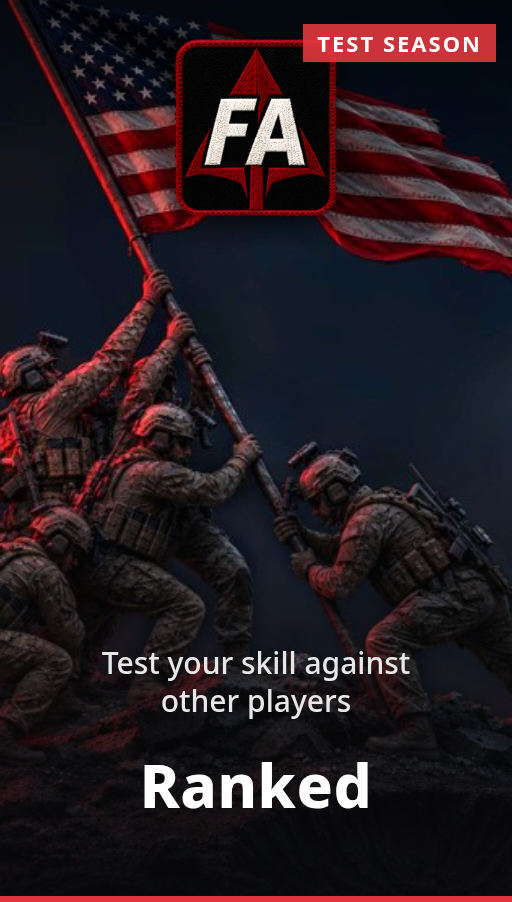
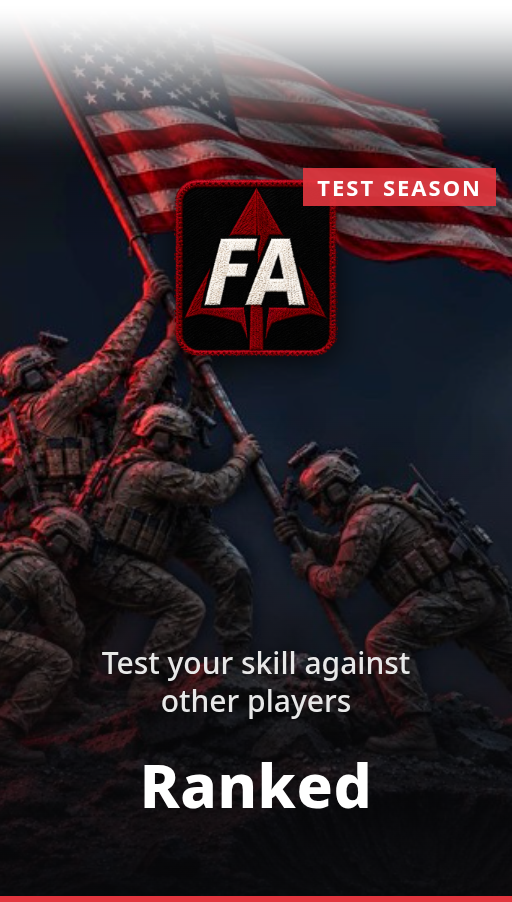
Ranked card hover/fade and Team-queue party panel (Lateralus 22 Nov)
- Card art: top fade like the vanilla Play cards; FA patch and season tag moved below the fade.
- Card placed from the cards' rest layout (all the same width, per screen size), so a hovered vanilla card no longer
  moves or resizes it; on its own hover it grows with the vanilla hover scale/anchor, measured from the game's own
  hovered card (largest size seen; default 1.098 from a Vengeance screenshot).
- Team queue: YOUR PARTY panel through ArrowQueue's party (Party.Invite/Accept/Decline/Leave/Kick): member chips,
  leader kick, invite picker (online players on the same build, mouse-wheel paging, modal), disband/leave,
  incoming invite accept/decline.
Seen in game on Vengeance (dev.28-ranked8): fade, fixed position, hover grow x1.083+ measured, party panel, picker.
Invite/accept flow not tested (needs a second player on the test hub).

Changed region(s): [[0.0, 0.0, 1.0, 0.4035]]

diff --git a/releases/0.6/source/runtime-qa/RankedMenu.cs b/releases/0.6/source/runtime-qa/RankedMenu.cs
@@ -47,7 +47,8 @@ static class RankedMenu
     static Type tFlow,tUi,tApi,tGame,tSignal;
     static MethodInfo mBegin,mCanStart,mStop,mPicked,mSupported;
     static PropertyInfo pActive,pCurrent,pMySteam,pInLobby;
-    static FieldInfo fLink,fPartyNews;
+    static FieldInfo fLink,fPartyNews,fPartyCurrent,fIncoming,fOnline,fOnlineList;
+    static MethodInfo mInvite,mAccept,mDecline,mLeave,mKick;
 
     public static void Install(HarmonyLib.Harmony h)
     {
@@ -63,6 +64,11 @@ static class RankedMenu
         pActive=AccessTools.Property(tApi,"Active");pCurrent=AccessTools.Property(tApi,"Current");
         pMySteam=AccessTools.Property(tGame,"MySteamId");pInLobby=AccessTools.Property(tGame,"InLobby");
         fLink=AccessTools.Field(tSignal,"_link");fPartyNews=AccessTools.Field(tApi,"PartyNews");
+        var tParty=AccessTools.TypeByName("ArrowQueue.Party");   // ArrowQueue's own party calls (invite, accept, decline, leave, kick)
+        fPartyCurrent=AccessTools.Field(tParty,"Current");fIncoming=AccessTools.Field(tParty,"Incoming");
+        fOnline=AccessTools.Field(tApi,"Online");fOnlineList=AccessTools.Field(tApi,"OnlineList");
+        mInvite=AccessTools.Method(tParty,"Invite");mAccept=AccessTools.Method(tParty,"Accept");mDecline=AccessTools.Method(tParty,"Decline");
+        mLeave=AccessTools.Method(tParty,"Leave");mKick=AccessTools.Method(tParty,"Kick");
         foreach(var (n,o) in new (string,object)[]{("Flow.Begin",mBegin),("Flow.Picked",mPicked),("Ui.CanStart",mCanStart),("Api.Stop",mStop),("Game.SupportedScenarios",mSupported),
             ("Api.Active",pActive),("Api.Current",pCurrent),("Game.MySteamId",pMySteam),("Game.InLobby",pInLobby),("Signal._link",fLink)})
             if(o==null)throw new InvalidOperationException("ArrowQueue "+n+" not found");
@@ -228,11 +234,31 @@ static class RankedMenu
         if(rects.Count<2&&c.transform.childCount>0)for(int i=0;i<c.transform.childCount&&rects.Count<2;i++)rects=Cards(c.transform.GetChild(i));
         if(rects.Count<2)return No($"found {rects.Count} card rects under {c.name} ({c.transform.childCount} children)");
         rects.Sort((a,b)=>a.x.CompareTo(b.x));
-        last=rects[^1];pitch=rects[^1].x-rects[^2].x;
+        // Vanilla cards grow in place on hover (Lateralus 22 Nov: hovering Multiplayer pushed the Ranked card right; hovering
+        // Skirmish grew both). The card is placed from the cards' rest layout (all the same width), kept per screen size;
+        // a hovered vanilla card gives the hover scale and anchor that the Ranked card copies.
+        bool rest=rects.All(r=>Math.Abs(r.width-rects[0].width)<1f);
+        int key=Screen.width*100000+Screen.height;
+        if(rest){baseCards=rects;baseKey=key;}
+        else if(baseCards!=null&&baseKey==key&&baseCards.Count==rects.Count)
+            for(int i=0;i<rects.Count;i++)
+            {
+                var b0=baseCards[i];var h0=rects[i];float gi=h0.width/b0.width;
+                if(gi<=measured+0.004f)continue;   // the hover grows over a few frames: keep the largest size seen
+                measured=gi;grow=gi;
+                growAx=Mathf.Clamp01((b0.x-h0.x)/Math.Max(1f,h0.width-b0.width));
+                growAy=Mathf.Clamp01((b0.y-h0.y)/Math.Max(1f,h0.height-b0.height));
+                if(gi>=loggedGrow+0.02f){loggedGrow=gi;MelonLogger.Msg($"FREEDOM_ARROW_RANKED vanilla hover: x{grow:0.000}, anchor {growAx:0.00},{growAy:0.00} ({b0} -> {h0})");}
+            }
+        var use=baseCards!=null&&baseKey==key&&baseCards.Count==rects.Count?baseCards:rects;
+        last=use[^1];pitch=use[^1].x-use[^2].x;
         if(!(last.width>20f&&pitch>last.width*0.5f))return No($"odd card layout: last {last}, pitch {pitch}");
         if(why!="shown"){why="shown";MelonLogger.Msg($"FREEDOM_ARROW_RANKED cards: {string.Join(" ",rects)}");}
         return true;
     }
+    static List<Rect> baseCards;static int baseKey;
+    // Default from a Vengeance screenshot (Multiplayer card 245 -> 269 px wide when hovered); replaced by the measured vanilla hover.
+    static float grow=1.098f,growAx=0.5f,growAy=0.4f,hoverT,measured=1f,loggedGrow=1f;
     static List<Rect> Cards(Transform t)
     {
         var l=new List<Rect>();
@@ -283,9 +309,13 @@ static class RankedMenu
             if(card==null||!PlayCards(out var last,out var pitch))return;
             var r=new Rect(last.x+pitch,last.y,last.width,last.height);
             if(!loggedCard){loggedCard=true;MelonLogger.Msg($"FREEDOM_ARROW_RANKED card at {r} (last game card {last}, screen {Screen.width}x{Screen.height})");}
-            GUI.DrawTexture(r,card,ScaleMode.ScaleAndCrop);
             var e=Event.current;
-            if(r.Contains(e.mousePosition)){Fill(r,new Color(1,1,1,0.10f));Fill(new Rect(r.x,r.yMax-4,r.width,4),Red);}
+            bool hover=r.Contains(e.mousePosition);
+            if(e.type==EventType.Repaint)hoverT=Mathf.MoveTowards(hoverT,hover?1f:0f,Time.unscaledDeltaTime*8f);
+            float g=1f+(grow-1f)*hoverT;   // grow like the vanilla cards, with their measured anchor
+            var d=new Rect(r.x-(r.width*(g-1f))*growAx,r.y-(r.height*(g-1f))*growAy,r.width*g,r.height*g);
+            GUI.DrawTexture(d,card,ScaleMode.StretchToFill);
+            if(hover)Fill(new Rect(d.x,d.yMax-4*S0(),d.width,4*S0()),Red);
             if(GUI.Button(r,GUIContent.none,GUIStyle.none))Open();
         }
         catch(Exception ex){MelonLogger.Warning("FREEDOM_ARROW_RANKED: "+ex.Message);Close("error");play=null;}
@@ -294,6 +324,7 @@ static class RankedMenu
     // ---------- drawing ----------
     static readonly Color Red=new(0.886f,0.212f,0.243f),Green=new(0.42f,0.8f,0.38f),Dim=new(0.75f,0.75f,0.75f),Panel=new(0,0,0,0.45f);
     static float S,X0;   // scale (design height 900) and left offset (design width 1600, centred)
+    static float S0()=>Screen.height/1080f;
     static Rect R(float x,float y,float w,float h)=>new(X0+x*S,y*S,w*S,h*S);
     static void Fill(Rect r,Color c){var o=GUI.color;GUI.color=c;GUI.DrawTexture(r,Texture2D.whiteTexture);GUI.color=o;}
     static GUIStyle St(int size,Color c,FontStyle f=FontStyle.Normal,TextAnchor a=TextAnchor.MiddleLeft)
@@ -335,7 +366,8 @@ static class RankedMenu
         if(tab==1&&now>=nextBoard){nextBoard=now+30f;AskBoards();}
         Fill(new Rect(0,0,Screen.width,Screen.height),new Color(0.02f,0.03f,0.04f,0.97f));
         var e=Event.current;
-        if(e.type==EventType.KeyDown&&e.keyCode==KeyCode.Escape){Close("Esc");e.Use();return;}
+        if(e.type==EventType.KeyDown&&e.keyCode==KeyCode.Escape){if(picking)picking=false;else Close("Esc");e.Use();return;}
+        if(picking){InvitePicker(now);return;}   // modal: nothing under it takes clicks
         // Two tabs (Lateralus 22 Nov: "Leaderboard and Rank Ladder are redundant"); the leaderboard has 1v1 and Team sub-menus.
         string[] tabs={"Ranked","Leaderboard"};float[] tw={152,232};
         float tx=58;
@@ -431,6 +463,7 @@ static class RankedMenu
         try{if(have)searching=me.GetProperty("searching").GetProperty(queue).GetInt32();}catch{}
         T(58,468,470,24,$"{searching} {(searching==1?"player":"players")} searching {(queue=="r1v1"?"1v1":"team games")}",13,Dim,FontStyle.Normal,TextAnchor.MiddleCenter);
         if(now<noteUntil)T(58,494,470,40,note,13,new Color(1f,0.75f,0.3f),FontStyle.Normal,TextAnchor.MiddleCenter);
+        if(queue=="rteam")PartyPanel(now);
 
         // middle: your rank
         var lad=Ladder(queue);var m=Mine(me,have,lad);int s=Set;
@@ -492,6 +525,72 @@ static class RankedMenu
         }
     }
     static float searchFrom;
+
+    // Party for the Team queue (Lateralus 22 Nov: "a way to create a party/group to queue up for team games"). Uses ArrowQueue's
+    // own party (the hub's PartyAction): invite online players on the same build, accept/decline invites, kick, leave.
+    static bool picking;static int pickTop;
+    static object[] Arr(FieldInfo f){try{return (f?.GetValue(null) as Array)?.Cast<object>().ToArray()??Array.Empty<object>();}catch{return Array.Empty<object>();}}
+    static string P(object o,string prop){try{return Traverse.Create(o).Property(prop).GetValue()?.ToString()??"";}catch{return "";}}
+    static void PartyPanel(float now)
+    {
+        var cur=fPartyCurrent?.GetValue(null);
+        var members=cur==null?Array.Empty<object>():(Traverse.Create(cur).Property("members").GetValue() as Array)?.Cast<object>().ToArray()??Array.Empty<object>();
+        string leader=cur==null?"":P(cur,"leader");bool lead=members.Length==0||leader==MySteam();
+        // Compact, so it fits above the rank ladder strip: one row of member chips, one row of buttons.
+        var inc=Arr(fIncoming);
+        if(inc.Length>0)
+        {
+            var i=inc[0];
+            Fill(R(58,528,470,34),new Color(0.1f,0.25f,0.4f,0.85f));
+            T(68,528,240,34,$"{P(i,"fromName")} invited you to a party",13,Color.white,FontStyle.Bold);
+            if(Choice(318,531,100,28,"Accept",false,13)){try{mAccept.Invoke(null,new[]{i});}catch(Exception e){error=e.InnerException?.Message??e.Message;}}
+            if(Choice(424,531,100,28,"Decline",false,13)){try{mDecline.Invoke(null,new[]{i});}catch(Exception e){error=e.InnerException?.Message??e.Message;}}
+        }
+        else H(58,530,470,$"YOUR PARTY · {Math.Max(1,members.Length)}/5"+(members.Length>=4?" · plays 5v5":""));
+        if(members.Length==0)T(58,566,470,30,"Just you. Invite players to queue together (up to 5).",13,Dim);
+        else for(int k=0;k<Math.Min(5,members.Length);k++)
+        {
+            var m=members[k];string id=P(m,"steamId");bool isLead=id==leader,isMe=id==MySteam();
+            var cr=R(58+k*94,566,90,30);
+            Fill(cr,isMe?new Color(0.42f,0.8f,0.38f,0.18f):new Color(0,0,0,0.5f));Frame(cr,isLead?new Color(1f,0.8f,0.3f,0.7f):new Color(1,1,1,0.15f),1);
+            GUI.Label(new Rect(cr.x+6*S,cr.y,cr.width-(lead&&!isMe?26:8)*S,cr.height),(isLead?"★ ":"")+P(m,"name"),St(12,Color.white,isLead?FontStyle.Bold:FontStyle.Normal));
+            if(lead&&!isMe)
+            {
+                var kr=new Rect(cr.xMax-22*S,cr.y+5*S,18*S,20*S);
+                GUI.Label(kr,"X",St(12,kr.Contains(Event.current.mousePosition)?Red:Dim,FontStyle.Bold,TextAnchor.MiddleCenter));
+                if(GUI.Button(kr,GUIContent.none,GUIStyle.none)){try{mKick.Invoke(null,new object[]{id});}catch(Exception e){error=e.InnerException?.Message??e.Message;}}
+            }
+        }
+        if(lead&&members.Length<5&&Choice(58,602,230,30,"+ INVITE PLAYERS",false,13)){picking=true;pickTop=0;}
+        if(members.Length>1&&Choice(298,602,230,30,lead?"DISBAND PARTY":"LEAVE PARTY",false,13)){try{mLeave.Invoke(null,null);}catch(Exception e){error=e.InnerException?.Message??e.Message;}}
+    }
+    static void InvitePicker(float now)
+    {
+        var info=fOnline?.GetValue(null)??fOnlineList?.GetValue(null);
+        var all=info==null?Array.Empty<object>():(Traverse.Create(info).Property("players").GetValue() as Array)?.Cast<object>().ToArray()??Array.Empty<object>();
+        var list=all.Where(p=>P(p,"steamId")!=MySteam()&&P(p,"sameBuild")=="True"&&P(p,"inParty")!="True").OrderBy(p=>P(p,"name"),StringComparer.OrdinalIgnoreCase).ToList();
+        var box=R(560,110,520,690);
+        Fill(box,new Color(0.06f,0.07f,0.08f,0.99f));Frame(box,new Color(1,1,1,0.2f),1);
+        H(584,124,400,"INVITE TO YOUR PARTY");
+        T(584,154,470,22,$"{list.Count} online on your Freedom Arrow build",13,Dim);
+        const int Vis=13;var area=R(584,184,470,Vis*42);var ev=Event.current;
+        try{if(ev.type==EventType.ScrollWheel&&area.Contains(ev.mousePosition)){pickTop=Math.Clamp(pickTop+(ev.delta.y>0?3:-3),0,Math.Max(0,list.Count-Vis));ev.Use();}}catch{}
+        pickTop=Math.Clamp(pickTop,0,Math.Max(0,list.Count-Vis));
+        if(list.Count==0)T(584,190,470,30,"Nobody else is online on this build right now.",14,Dim);
+        for(int i=pickTop;i<Math.Min(list.Count,pickTop+Vis);i++)
+        {
+            var p=list[i];float y=184+(i-pickTop)*42;
+            Fill(R(584,y,470,38),new Color(0,0,0,0.5f));
+            T(596,y,300,38,P(p,"name"),15,Color.white,FontStyle.Bold);
+            T(860,y,80,38,P(p,"state"),12,Dim,FontStyle.Normal,TextAnchor.MiddleRight);
+            if(Choice(950,y+5,96,28,"Invite",false,13))
+            {
+                try{mInvite.Invoke(null,new object[]{p,now});note="Invitation sent to "+P(p,"name")+".";noteUntil=now+6f;MelonLogger.Msg("FREEDOM_ARROW_RANKED party invite "+P(p,"name"));}
+                catch(Exception e){error=e.InnerException?.Message??e.Message;}
+            }
+        }
+        if(Choice(700,756,240,34,"CLOSE",false,14))picking=false;
+    }
     static void Stat(float x,float y,string label,string val){Fill(R(x,y,140,62),Box);T(x+10,y+4,130,30,val,20,Color.white,FontStyle.Bold);T(x+10,y+34,130,22,label,12,Dim);}
     static string Ord(int n)=>n+(n%100 is 11 or 12 or 13?"th":(n%10) switch{1=>"st",2=>"nd",3=>"rd",_=>"th"});
 
